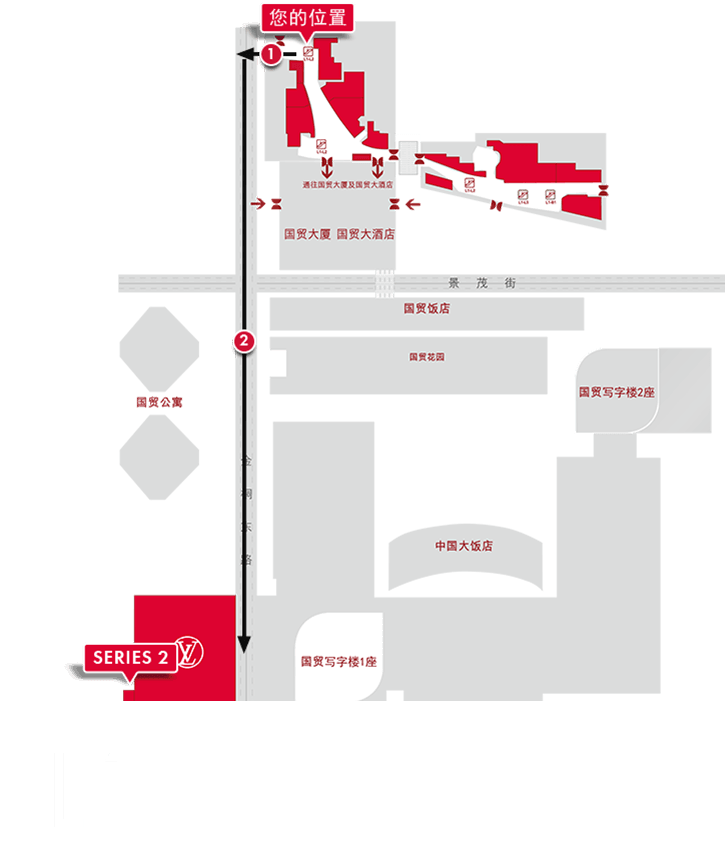
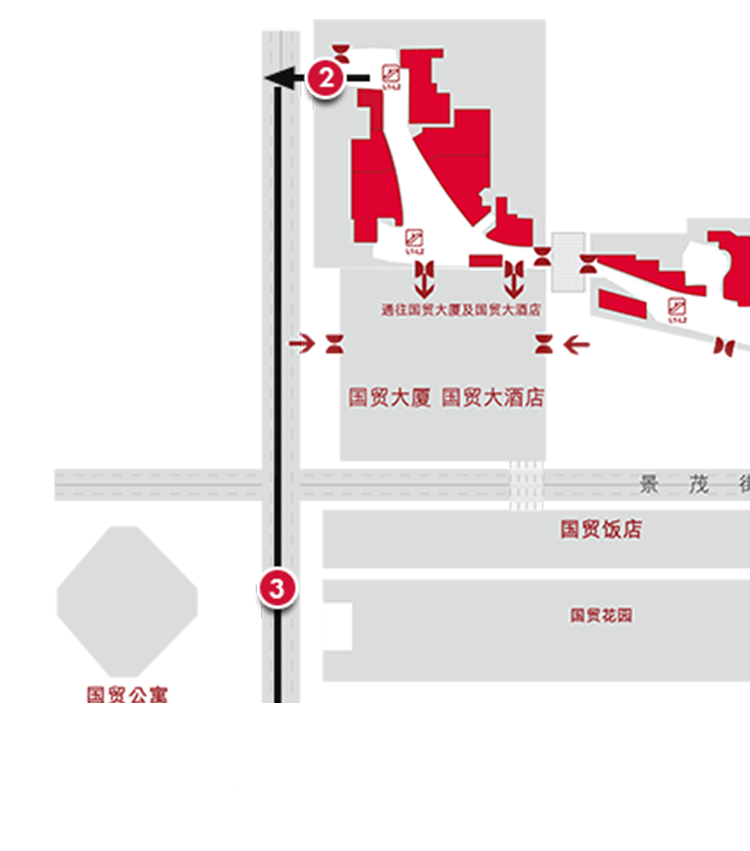
漏掉一张地图

diff --git a/map-9.html b/map-9.html
@@ -1,0 +1,97 @@
+<!doctype html>
+<html>
+<head>
+<meta charset="UTF-8">
+  <meta name="robots" content="noindex">
+	<meta name="viewport" content="width=device-width, initial-scale=1, user-scalable=no, minimal-ui" />
+	<meta content="yes"name="apple-mobile-web-app-capable"/>
+ 	<meta content="black"name="apple-mobile-web-app-status-bar-style"/>
+	<meta name="format-detection"content="telphone=no"/>
+	<title>路易威登</title>
+  <link rel="stylesheet" type="text/css" href="/css/page.css" />
+  <link rel="stylesheet" type="text/css" href="/css/jquery.mCustomScrollbar.css" />
+  <style type="text/css">
+    html,body{
+      width: 100%;
+      overflow: auto;
+      position: relative;
+    }
+  </style>
+</head>
+<body>
+<div id="heng"></div>
+<section class="map">
+
+        <div class="guide" id="content">
+          <ul class="floor">
+            <li>
+                <span class="curfloor hover">L1</span><span class="textStaus-2"><em>1</em>向西40米<br />至西出口</span>
+                <span><em>2</em>向西20米<br />至马路<br/>对面</span>
+                <span class="textStaus-2"><em>3</em>向南20米<br />至LV店铺</span>
+                <span class="textStaus-2">询问店员<br />SERIES 2地址</span>
+            </li>
+          <ul>
+        </div>  
+        <div class="mapcon">
+         
+          <img src="/images/map/map9.png" />
+        </div>
+
+        <a href="javascript:history.go(-1);" class="prevBtn">上一页</a>
+
+    </section>
+<script type="text/javascript" src="/js/jquery.js"></script>
+<script type="text/javascript" src="/js/jquery.mCustomScrollbar.concat.min.js"></script>
+<script type="text/javascript">
+;(function($){
+    $(window).load(function(){  
+      $("#content").mCustomScrollbar({
+          axis:"x",
+          advanced:{autoExpandHorizontalScroll:true},
+      }); 
+    });
+})(jQuery);
+</script>
+<script type="text/javascript">
+$(".curfloor").click(function(){
+  if($(this).hasClass("hover"))return false;
+  $(".curfloor").removeClass("hover");
+  $(this).addClass("hover");
+  $('#content').mCustomScrollbar('scrollTo',$(this)); 
+  $(".floorChange img").hide();
+  if($(this).index()==0){
+    $(".floorChange img").eq($(this).index()).fadeIn();
+  }else{
+    $(".floorChange img").eq(1).fadeIn();
+  }  
+
+})
+
+
+function orientationChange() {
+    switch(window.orientation) {
+    　　case 0:
+            document.getElementById('heng').style.display="none";
+            break;
+    　　case -90:
+            document.getElementById('heng').style.display="block";
+            break;
+    　　case 90:
+            document.getElementById('heng').style.display="block";
+            break;
+    　　case 180:
+        　　document.getElementById('heng').style.display="none";
+        　　break;
+    };
+
+};
+
+
+addEventListener('load', function(){
+    orientationChange();
+    window.onorientationchange = orientationChange;
+});
+
+</script>
+</body>
+</html>
